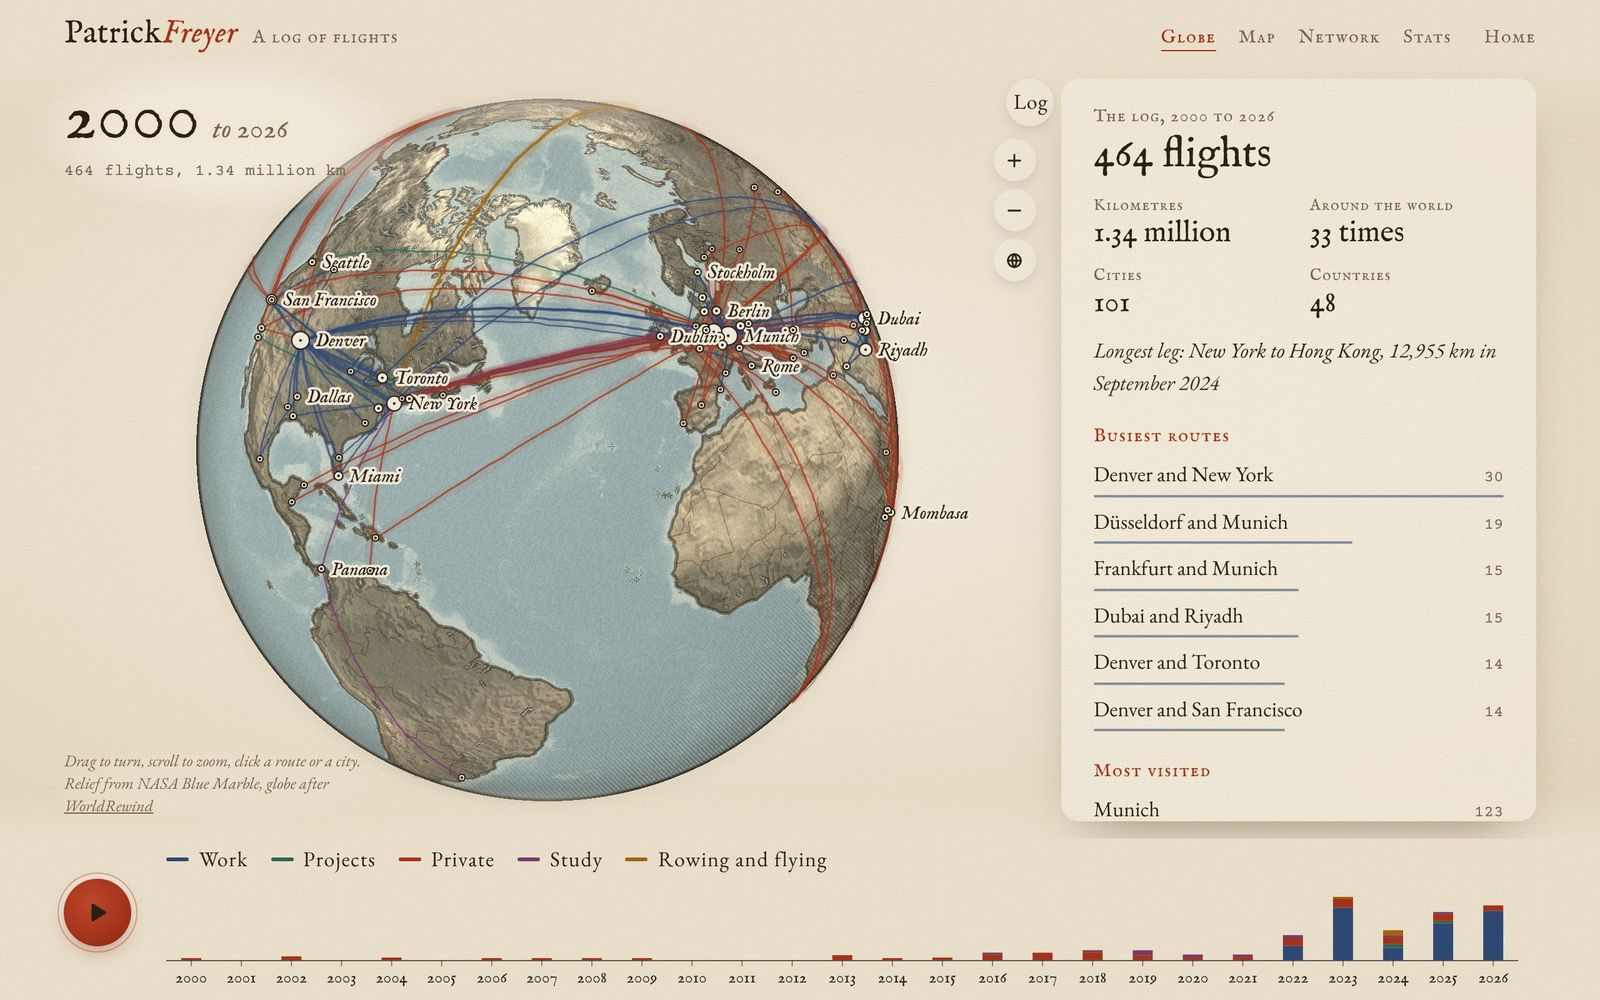
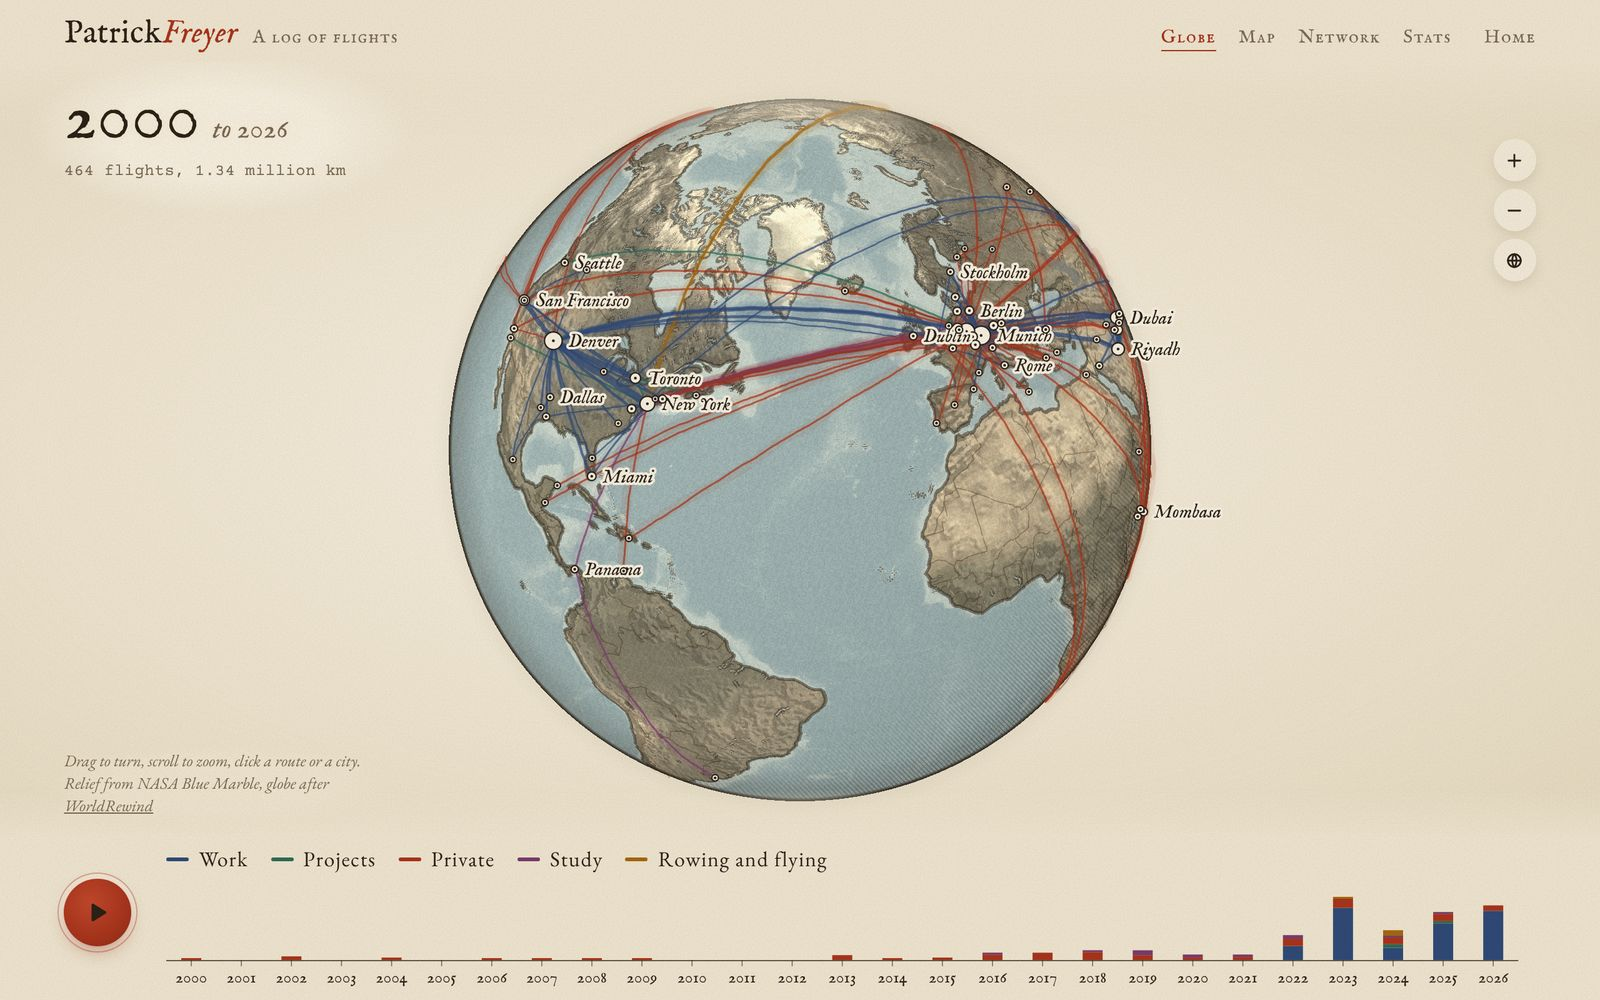
Globe page: drop the totals card, thicken busy routes
The right-hand card now opens only for a clicked city or route (with a Close
button); totals stay on the stats page. Route width grows faster with how
often a route was flown (about 1px for one flight, 5.5px for thirty).

Claude-Session: https://claude.ai/code/session_01CoqrHXRuxQRGEA8QiRYcaP

diff --git a/src/flights/app.ts b/src/flights/app.ts
@@ -11,7 +11,7 @@ import type { Topology, GeometryCollection } from 'topojson-specification';
 import { createGlobe, greatCircle, type Globe, type LonLat } from './globe/globe';
 import {
   prepare, edges as toEdges, cities as toCities, summary, GROUPS, groupColor, groupLabel,
-  fmtInt, fmtKm, when, pairKey, type Flight, type Edge, type CityStat, type GroupKey, type RawFlight, type Place,
+  fmtInt, fmtKm, type Flight, type Edge, type CityStat, type GroupKey, type RawFlight, type Place,
 } from './data';
 
 const $ = <T extends Element = HTMLElement>(s: string) => document.querySelector(s) as T;
@@ -106,7 +106,8 @@ const rgba = (hex: string, a: number) => {
   const n = parseInt(hex.slice(1), 16);
   return `rgba(${n >> 16},${(n >> 8) & 255},${n & 255},${a})`;
 };
-const width = (e: Edge, k: number) => Math.min(4.2, .75 + Math.sqrt(e.count) * .5) * Math.min(1.5, .85 + k * .15);
+// busier routes get clearly heavier lines: 1 flight about 1.2px, 5 about 2.3px, 15 about 3.9px, 30 about 5.6px
+const width = (e: Edge, k: number) => Math.min(6.5, .6 + Math.pow(e.count, .65) * .6) * Math.min(1.5, .85 + k * .15);
 
 function focusEdges(): Set<string> | null {
   const f = state.focus;
@@ -264,13 +265,13 @@ $('#zhome').addEventListener('click', () => globe.flyTo([-35, 38], 1, 900));
 
 /* ---------- The card ---------- */
 const cardIn = $('#card-in');
-const cardToggle = $('#card-toggle');
-cardToggle.addEventListener('click', () => {
-  card.classList.toggle('closed');
-  cardToggle.setAttribute('aria-expanded', String(!card.classList.contains('closed')));
+// The card only opens for a clicked city or route; the totals live on the stats page
+function setCard(open: boolean) {
+  if (card.classList.contains('closed') === !open) return;
+  card.classList.toggle('closed', !open);
+  card.setAttribute('aria-hidden', String(!open));
   globe.relayout();
-});
-if (matchMedia('(max-width: 720px)').matches) { card.classList.add('closed'); cardToggle.setAttribute('aria-expanded', 'false'); }
+}
 
 const span = () => state.y0 === state.y1 ? `${state.y0}` : `${state.y0} to ${state.y1}`;
 const bar = (n: number, max: number, col = 'var(--ink)') => `<span class="bar" style="--w:${(n / max * 100).toFixed(1)}%;--c:${col}"></span>`;
@@ -281,42 +282,15 @@ function listFlights(fl: Flight[], other?: (f: Flight) => string) {
   return [...byYear].map(([y, l]) => `<h4>${y}</h4><ul class="legs">${l.map(f => `<li><i style="--c:${groupColor(f.group)}"></i><span>${other ? other(f) : `${esc(f.origin)} to ${esc(f.destination)}`}</span><em>${f.m >= 0 ? esc(f.month.slice(0, 3)) : ''}</em><small>${esc(f.airline !== 'XXX' ? f.airline : '')}${f.travelers && f.travelers.length > 1 ? `, with ${esc(f.travelers.filter(t => t !== 'Patrick').join(', '))}` : ''}</small></li>`).join('')}</ul>`).join('');
 }
 
-function summaryHTML() {
-  const s = summary(SEL);
-  const top = [...EDGES].sort((a, b) => b.count - a.count).slice(0, 6);
-  const topC = CITIES.slice(0, 6);
-  const al = [...s.airlines].sort((a, b) => b[1] - a[1]).slice(0, 6);
-  const mx = Math.max(1, ...top.map(e => e.count));
-  const mc = Math.max(1, ...topC.map(c => c.visits));
-  const ma = Math.max(1, ...al.map(a => a[1]));
-  const laps = s.km / 40075;
-  return `
-    <p class="kicker">The log, ${span()}</p>
-    <h2>${s.flights ? `${fmtInt(s.flights)} ${s.flights === 1 ? 'flight' : 'flights'}` : 'No flights here'}</h2>
-    ${s.flights ? `
-    <dl class="figs">
-      <div><dt>Kilometres</dt><dd>${fmtKm(s.km)}</dd></div>
-      <div><dt>Around the world</dt><dd>${laps.toFixed(laps < 10 ? 1 : 0)} times</dd></div>
-      <div><dt>Cities</dt><dd>${s.cities}</dd></div>
-      <div><dt>Countries</dt><dd>${s.countries}</dd></div>
-    </dl>
-    ${s.longest ? `<p class="note">Longest leg: <a href="#" data-route="${esc(pairKey(s.longest.origin, s.longest.destination))}">${esc(s.longest.origin)} to ${esc(s.longest.destination)}</a>, ${fmtInt(s.longest.km)} km in ${when(s.longest)}</p>` : ''}
-    <h3>Busiest routes</h3>
-    <ol class="rank">${top.map(e => `<li><a href="#" data-route="${esc(e.key)}">${esc(e.a.name)} and ${esc(e.b.name)}</a><b>${e.count}</b>${bar(e.count, mx, groupColor(e.group))}</li>`).join('')}</ol>
-    <h3>Most visited</h3>
-    <ol class="rank">${topC.map(c => `<li><a href="#" data-city="${esc(c.place.name)}">${esc(c.place.name)}</a><b>${c.visits}</b>${bar(c.visits, mc)}</li>`).join('')}</ol>
-    ${al.length ? `<h3>Airlines</h3><ol class="rank">${al.map(([a, n]) => `<li><span>${esc(a)}</span><b>${n}</b>${bar(n, ma, 'var(--muted)')}</li>`).join('')}</ol>` : ''}
-    ` : `<p class="note">Nothing was flown for these occasions in ${span()}. Pick other years on the timeline or turn more occasions on</p>`}`;
-}
 function cityHTML(name: string) {
   const c = CITIES.find(x => x.place.name === name) ?? toCities(ALL).find(x => x.place.name === name);
-  if (!c) return summaryHTML();
+  if (!c) return '';
   const inSel = CITIES.includes(c);
   const partners = new Map<string, number>();
   for (const f of c.flights) { const o = f.origin === name ? f.destination : f.origin; partners.set(o, (partners.get(o) ?? 0) + 1); }
   const pl = [...partners].sort((a, b) => b[1] - a[1]).slice(0, 8), mp = Math.max(1, ...pl.map(p => p[1]));
   return `
-    <button class="back" data-back>All flights</button>
+    <button class="back" data-back aria-label="Close">Close</button>
     <p class="kicker">${esc(c.place.country)}, ${esc(c.place.continent)}</p>
     <h2>${esc(c.place.name)}</h2>
     <p class="lede">${c.visits} ${c.visits === 1 ? 'flight' : 'flights'} in or out${inSel ? `, ${span()}` : ' in all years'}. First in ${c.first}${c.last !== c.first ? `, last in ${c.last}` : ''}</p>
@@ -327,10 +301,10 @@ function cityHTML(name: string) {
 }
 function routeHTML(key: string) {
   const e = EDGES.find(x => x.key === key) ?? ALL_EDGES.find(x => x.key === key);
-  if (!e) return summaryHTML();
+  if (!e) return '';
   const al = [...e.airlines].sort((a, b) => b[1] - a[1]);
   return `
-    <button class="back" data-back>All flights</button>
+    <button class="back" data-back aria-label="Close">Close</button>
     <p class="kicker">${fmtInt(e.km)} km, ${e.first === e.last ? e.first : `${e.first} to ${e.last}`}</p>
     <h2>${esc(e.a.name)} <span class="amp">and</span> ${esc(e.b.name)}</h2>
     <p class="lede">${e.count} ${e.count === 1 ? 'flight' : 'flights'}${al.length ? ` with ${al.map(([a, n]) => `${esc(a)}${al.length > 1 ? ` (${n})` : ''}`).join(', ')}` : ''}. ${fmtKm(e.km * e.count)} km in all</p>
@@ -340,8 +314,9 @@ function routeHTML(key: string) {
 }
 function showCard() {
   const f = state.focus;
-  cardIn.innerHTML = !f ? summaryHTML() : f.kind === 'city' ? cityHTML(f.name) : routeHTML(f.key);
-  cardIn.scrollTop = 0;
+  const html = !f ? '' : f.kind === 'city' ? cityHTML(f.name) : routeHTML(f.key);
+  if (html) { cardIn.innerHTML = html; cardIn.scrollTop = 0; }
+  setCard(!!html);
 }
 cardIn.addEventListener('click', ev => {
   const a = (ev.target as Element).closest<HTMLElement>('[data-city],[data-route],[data-back]');
@@ -353,13 +328,11 @@ cardIn.addEventListener('click', ev => {
 });
 function openCity(name: string, fly: boolean) {
   state.focus = { kind: 'city', name }; writeHash(); showCard();
-  if (card.classList.contains('closed')) cardToggle.click();
   const c = CITIES.find(x => x.place.name === name) ?? toCities(ALL).find(x => x.place.name === name);
   if (fly && c) globe.flyTo([c.place.lon, c.place.lat], Math.max(globe.k, 1.6), 900); else globe.render();
 }
 function openRoute(key: string) {
   state.focus = { kind: 'route', key }; writeHash(); showCard();
-  if (card.classList.contains('closed')) cardToggle.click();
   const e = EDGES.find(x => x.key === key) ?? ALL_EDGES.find(x => x.key === key);
   if (e) {
     const mid = routeGeo(e).coordinates[Math.floor(routeGeo(e).coordinates.length / 2)] as LonLat;
